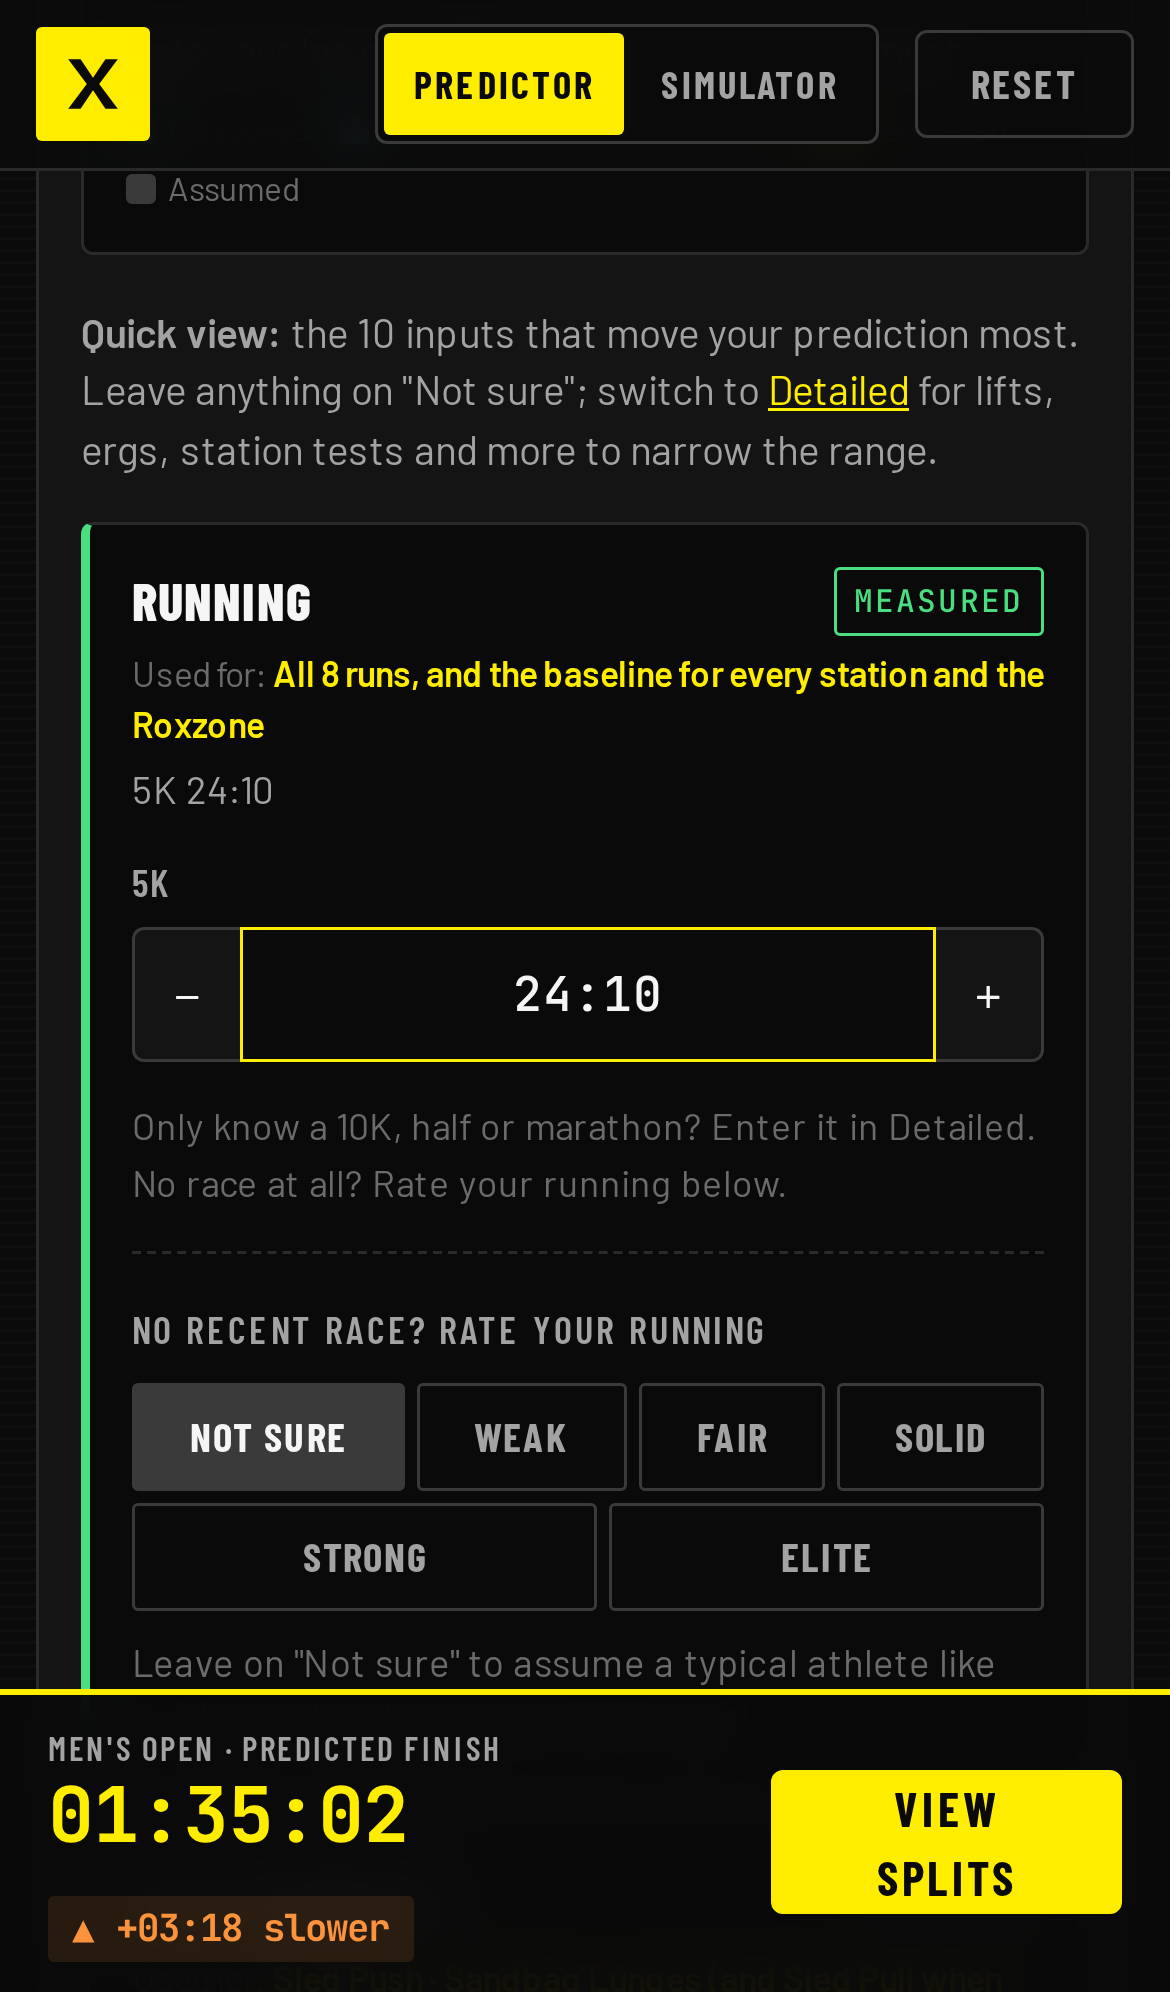
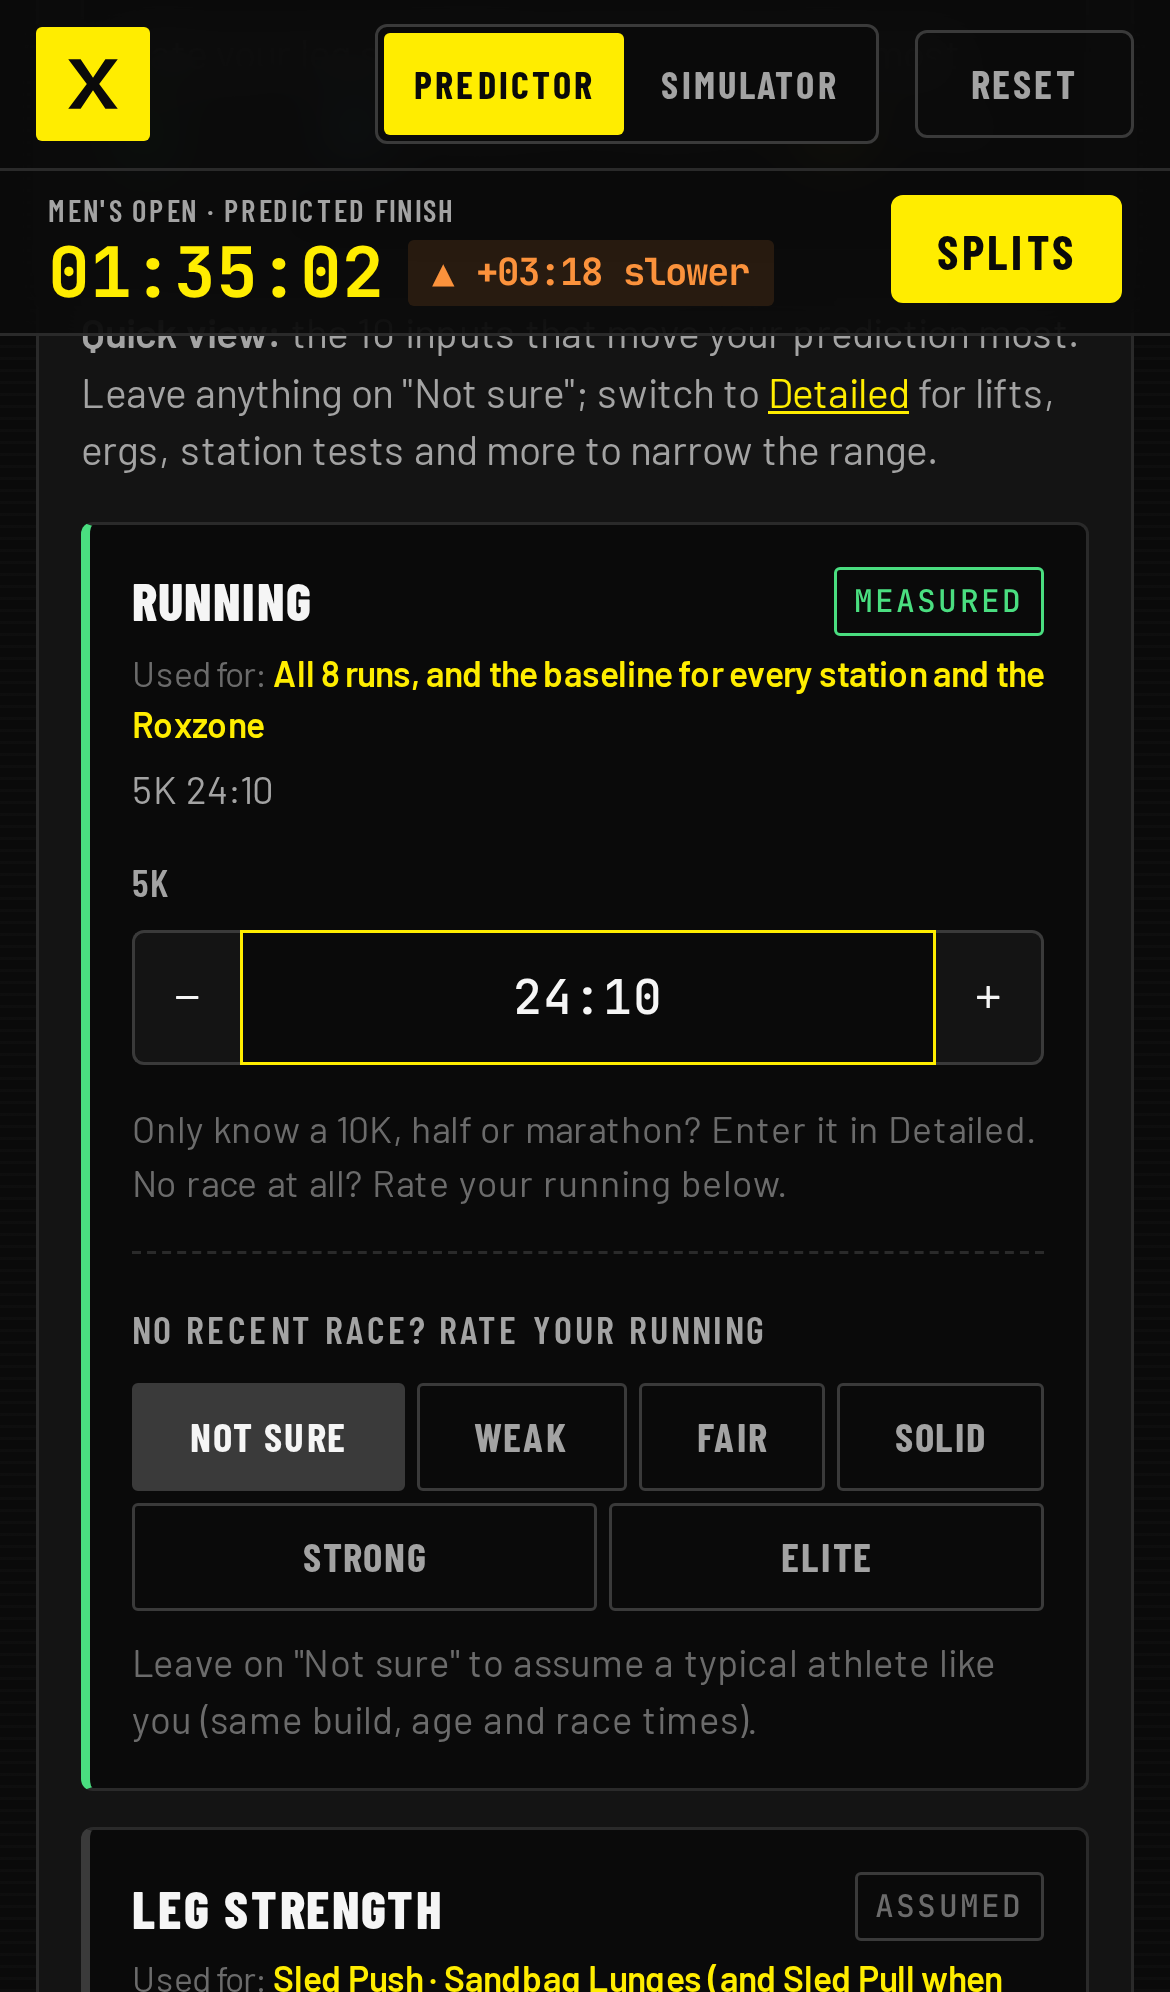
Phones: move the always-visible finish time to the sticky top bar
The bottom dock could be hidden by the iPhone keyboard. On phones and tablets
the finish time (with change chip and a Splits button) is now a second row
of the sticky top bar; desktop keeps the floating pill. Regression test added.

Claude-Session: https://claude.ai/code/session_013Dp4gjA5muRSAomANQ1Mvi

diff --git a/e2e/app.spec.ts b/e2e/app.spec.ts
@@ -382,17 +382,34 @@ test.describe('responsive layout', () => {
     expect(overflow).toBeLessThanOrEqual(0);
   });
 
-  test('phone: summary dock jumps to the splits', async ({ page, isMobile }) => {
-    test.skip(!isMobile, 'dock is phone/tablet only');
-    const dock = page.getByRole('region', { name: 'Predicted finish summary' });
-    await expect(dock).toBeVisible();
-    await dock.getByRole('button', { name: 'View splits' }).click();
+  test('phone: the finish time in the top bar jumps to the splits', async ({ page, isMobile }) => {
+    test.skip(!isMobile, 'top-bar finish time is phone/tablet only');
+    const top = page.getByRole('region', { name: 'Predicted finish', exact: true });
+    await expect(top).toBeVisible();
+    await top.getByRole('button', { name: 'Splits' }).click();
     await expect(page.locator('app-results-board .board-head')).toBeInViewport();
+  });
+
+  test('REGRESSION: on a phone the finish time sits at the top, where the keyboard cannot cover it', async ({ page, isMobile }) => {
+    // User: "the ever-present HYROX time gets hidden by the iPhone's keyboard… put it at the top."
+    test.skip(!isMobile, 'phone only');
+    await expect(page.getByRole('region', { name: 'Predicted finish summary' })).toBeHidden(); // no bottom bar
+    const field = page.getByLabel('Max unbroken wall balls');
+    await field.scrollIntoViewIfNeeded();
+    await field.focus();
+    await field.fill('30');
+    const top = page.getByRole('region', { name: 'Predicted finish', exact: true });
+    await expect(top).toBeInViewport();
+    const box = (await top.boundingBox())!;
+    expect(box.y).toBeLessThan(160); // pinned in the top bar, not at the bottom of the screen
+    await expect(top.locator('.topdock-time')).toHaveText(/\d{2}:\d{2}:\d{2}/);
+    await expect(top.locator('app-change-chip .chip')).toBeVisible();
   });
 
   test('desktop: results stay visible beside the form', async ({ page, isMobile }) => {
     test.skip(!!isMobile, 'desktop only');
     await expect(page.getByRole('region', { name: 'Predicted finish summary' })).toBeHidden();
+    await expect(page.getByRole('region', { name: 'Predicted finish', exact: true })).toBeHidden();
     await page.getByText('How the prediction works').scrollIntoViewIfNeeded();
     await expect(page.locator('app-results-board .clock')).toBeInViewport();
   });

diff --git a/src/app/app.scss b/src/app/app.scss
@@ -86,20 +86,23 @@
 
 @media (max-width: 1023px) {
   .layout { grid-template-columns: minmax(0, 1fr); }
-  .results { position: static; max-height: none; overflow: visible; }
-  .foot { padding-bottom: 110px; }
-  .dock {
-    display: flex; align-items: center; justify-content: space-between; gap: 12px;
-    position: fixed; left: 0; right: 0; bottom: 0; z-index: 30;
-    padding: 10px 16px calc(10px + env(safe-area-inset-bottom));
-    background: rgba(10, 10, 10, 0.94);
-    backdrop-filter: blur(10px);
-    -webkit-backdrop-filter: blur(10px);
-    border-top: 2px solid var(--accent);
-    > div { display: flex; flex-direction: column; }
-    .label { font-size: 0.7rem; }
+  .results { position: static; max-height: none; overflow: visible; scroll-margin-top: 130px; }
+  .dock { display: none !important; }
+}
+
+.topdock { display: none; }
+@media (max-width: 1023px) {
+  .topdock {
+    display: flex; align-items: center; gap: 10px;
+    max-width: 1320px; margin: 0 auto; padding: 6px 16px 8px;
+    border-top: 1px solid var(--line);
+    .td-main { display: flex; flex-direction: column; min-width: 0; }
+    .td-row { display: flex; align-items: center; gap: 8px; }
+    .label { font-size: 0.64rem; white-space: nowrap; overflow: hidden; text-overflow: ellipsis; }
+    app-change-chip { white-space: nowrap; font-size: 0.85em; }
+    .btn { margin-left: auto; min-height: 36px; padding: 0 14px; }
   }
-  .dock-time { font-size: 1.6rem; font-weight: 700; color: var(--accent); line-height: 1.1; }
+  .topdock-time { font-size: 1.45rem; font-weight: 700; color: var(--accent); line-height: 1.1; white-space: nowrap; }
 }
 
 @media (max-width: 600px) {

diff --git a/src/app/app.html b/src/app/app.html
@@ -17,6 +17,16 @@
     </nav>
     <button type="button" class="btn ghost reset" (click)="reset()">Reset</button>
   </div>
+  @if (view() === 'predictor') {
+    <!-- Phones and tablets: the finish time lives in the sticky top bar, where the on-screen keyboard can't cover it. -->
+    <div class="topdock" role="region" aria-label="Predicted finish">
+      <span class="td-main">
+        <span class="label">{{ store.prediction().division.name }} · predicted finish</span>
+        <span class="td-row"><span class="mono topdock-time">{{ fmt(store.prediction().total, true) }}</span><app-change-chip /></span>
+      </span>
+      <button type="button" class="btn primary small" (click)="scrollToResults()">Splits</button>
+    </div>
+  }
 </header>
 
 @if (view() === 'simulator') {
@@ -65,6 +75,7 @@
 
 @let pr = store.prediction();
 @if (view() === 'predictor') {
+<!-- Desktop only: a floating pill when the board's clock scrolls out of view (no on-screen keyboard there). -->
 <div class="dock" [class.show-desktop]="!clockVisible()" role="region" aria-label="Predicted finish summary">
   <div>
     <span class="label">{{ pr.division.name }} · predicted finish</span>

diff --git a/e2e/insights-simulator.spec.ts b/e2e/insights-simulator.spec.ts
@@ -89,11 +89,11 @@ test.describe('live total & units', () => {
     await expect(page.locator('app-results-board app-change-chip .chip')).toContainText('slower');
   });
 
-  test('the finish time stays visible while editing (dock on phone, floating pill on desktop)', async ({ page, isMobile }) => {
+  test('the finish time stays visible while editing (top bar on phone, floating pill on desktop)', async ({ page, isMobile }) => {
     const dock = page.getByRole('region', { name: 'Predicted finish summary' });
     if (isMobile) {
       await page.getByText('Save my inputs on this device').scrollIntoViewIfNeeded();
-      await expect(dock).toBeVisible();
+      await expect(page.getByRole('region', { name: 'Predicted finish', exact: true })).toBeInViewport();
     } else {
       await expect(dock).toBeHidden(); // board clock is on screen
       await page.locator('aside.results').evaluate((el) => el.scrollTo(0, 5000));

diff --git a/e2e/tutorial.ts b/e2e/tutorial.ts
@@ -117,7 +117,7 @@ test.describe('iPhone', () => {
     await page.getByLabel('5K', { exact: true }).evaluate((el) => el.scrollIntoView({ block: 'center' }));
     await page.waitForTimeout(300);
     await page.screenshot({ path: out('15-iphone-form') });
-    await page.getByRole('button', { name: 'View splits' }).click();
+    await page.getByRole('region', { name: 'Predicted finish', exact: true }).getByRole('button', { name: 'Splits' }).click();
     await page.waitForTimeout(800);
     await page.screenshot({ path: out('16-iphone-results') });
     await page.getByRole('link', { name: 'Simulator' }).click();

diff --git a/CHANGELOG.md b/CHANGELOG.md
@@ -30,6 +30,8 @@ All notable changes to this project are documented here. The format follows
 - **"Runs straight after stations":** most people can't answer it reliably.
 
 ### Fixed
+- **The always-visible finish time could be hidden by the iPhone keyboard.** On phones and tablets it now sits in the
+  sticky top bar (the keyboard covers the bottom of the screen). Desktop keeps the floating pill. Regression test added.
 - **Doubles could predict slower than your singles time with a strong partner.** The doubles Roxzone took the slower
   partner's full singles Roxzone. It now sits between the two partners (weighted 60/40 towards the slower) and
   allows for resting while your partner works. Regression test added.
